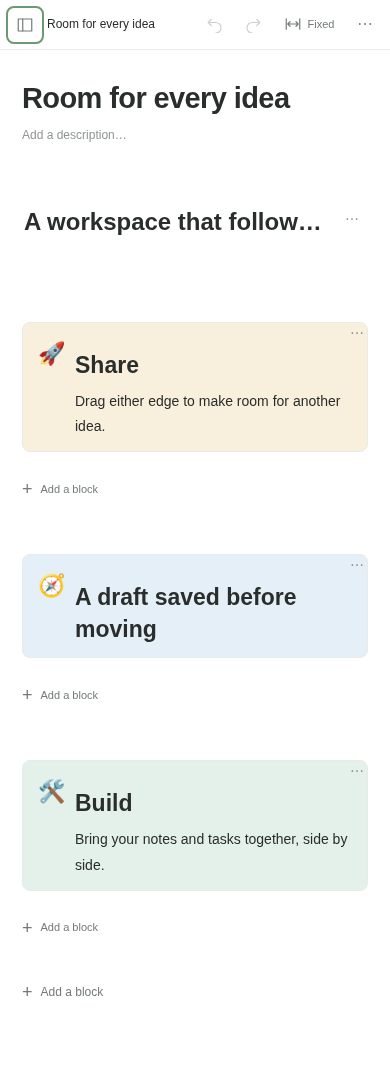
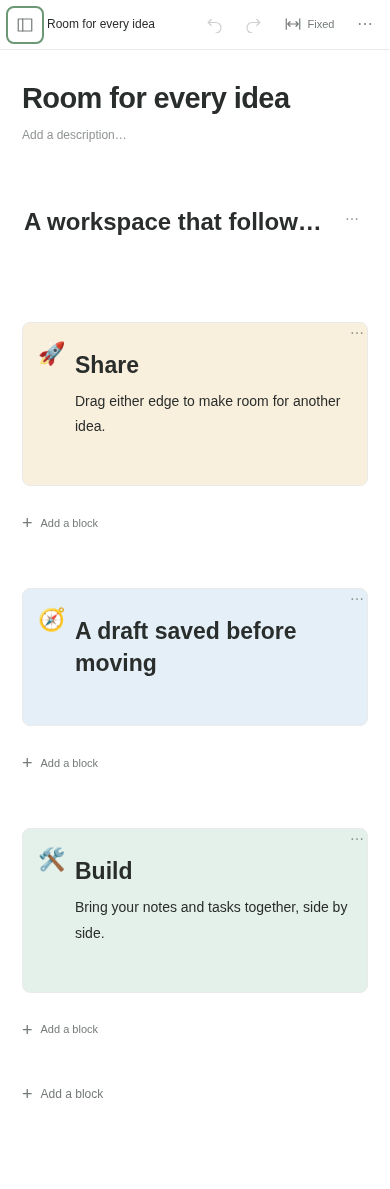
Keep callout color controls clear of column text

diff --git a/src/styles.css b/src/styles.css
@@ -453,9 +453,9 @@ h3 { font-size: 13px; margin: 0 0 12px; }
 .column-drop-preview[data-side=right]>span {left:auto;right:8px;}
 .column-drop-preview[data-allowed=false],.column-drop-preview[data-allowed=false]>span {background:#a34b12;}
 @media(max-width:760px){.layout-row {grid-template-columns:minmax(0,1fr);gap:10px;}.layout-column>.block-list>.block>.block-controls {left:-26px;}}
-.layout-column .callout-body {position:relative;gap:8px;padding:12px;}
+.layout-column .callout-body {display:grid;grid-template-columns:32px minmax(0,1fr);gap:8px;padding:12px;}
 .layout-column .callout-body>.callout-icon {flex-basis:32px;width:32px;font-size:22px;}
-.layout-column .callout-tone {position:absolute;top:5px;right:5px;max-width:80px;margin:0;}
+.layout-column .callout-tone {grid-column:2;justify-self:end;max-width:80px;margin:0;}
 
 .column-drop-preview[data-side=before],.column-drop-preview[data-side=after] {transform:translateY(-50%);}
 .column-drop-preview[data-side=before]::before,.column-drop-preview[data-side=after]::before {inset:-8px 0;}
